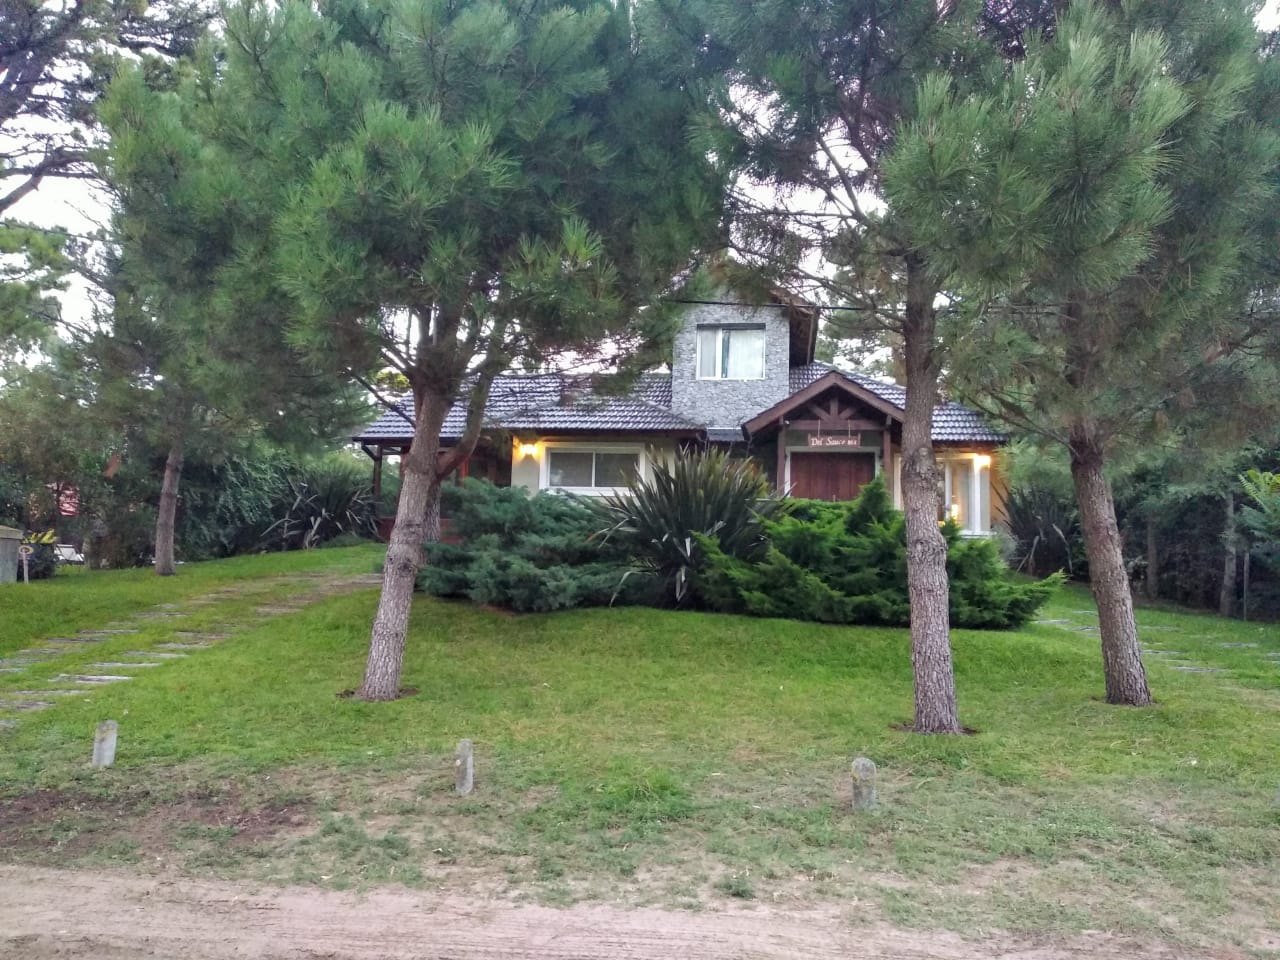
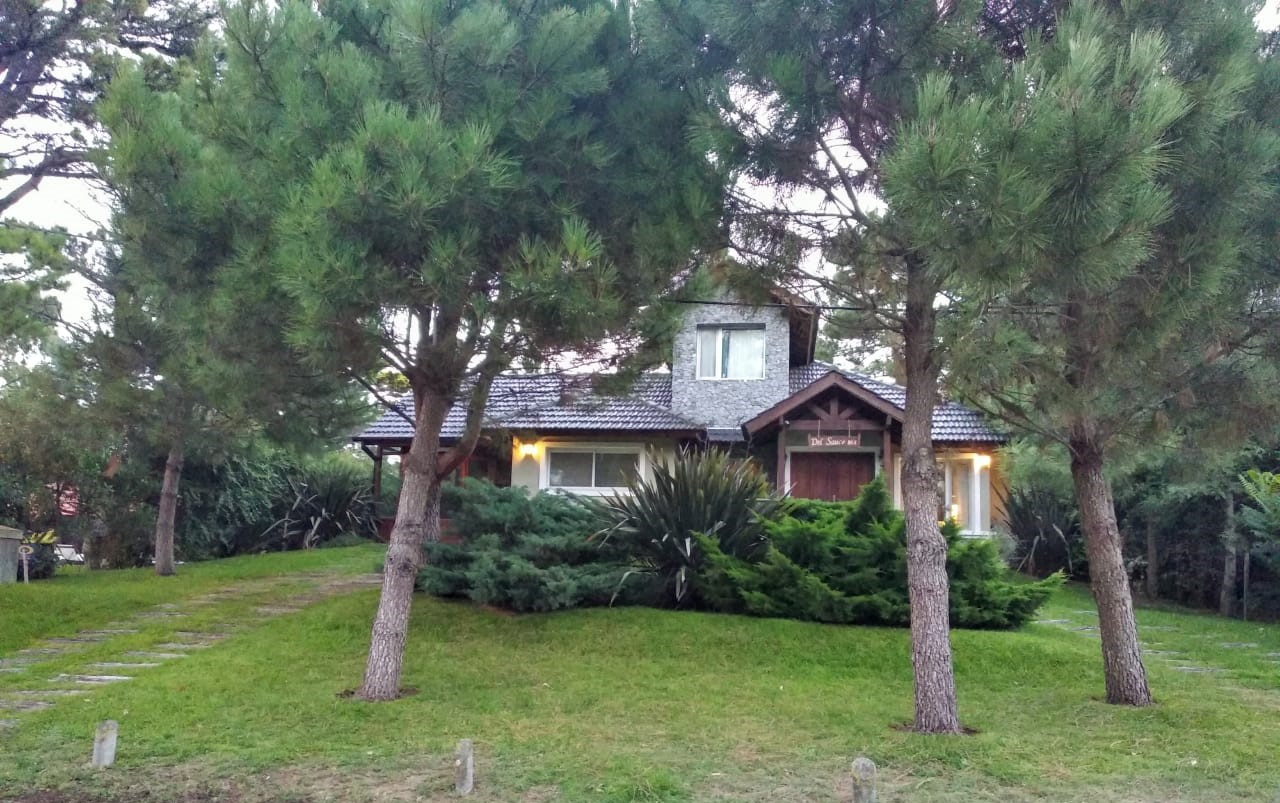
update

diff --git a/casa.html b/casa.html
@@ -67,30 +67,30 @@
     <!-- Photo grid (modal) -->
     <div class="w3-row-padding">
       <div class="w3-half w3-center">
-        <img src="./assets/FOTOS/9.jpg" style="width:100%; height:auto" onclick="onClick(this)" alt="Lado Derecho">
+        <img src="./assets/FOTOS/7.jpg" style="width:100%; height:auto" onclick="onClick(this)" alt="frente">
       </div>
       <div class="w3-half w3-center">
-        <img src="./assets/FOTOS/9.jpg" style="width:100%; height:auto" onclick="onClick(this)" alt="Frente">
-      </div>
-     
-    </div>
-    <br>
-    <div class="w3-row-padding">
-      <div class="w3-half w3-center">
-        <img src="./assets/FOTOS/Dormitorio1.jpeg" style="width:100%; height:auto" onclick="onClick(this)" alt="Lado Derecho">
-      </div>
-      <div class="w3-half w3-center">
-        <img src="./assets/FOTOS/Dormitorio11.jpeg" style="width:100%; height:auto" onclick="onClick(this)" alt="Dormitorio 2">
+        <img src="./assets/img/casa3.jfif" style="width:100%; height:auto" onclick="onClick(this)" alt="Frente">
       </div>
      
     </div>
     <br>
     <div class="w3-row-padding">
       <div class="w3-half w3-center">
-        <img src="./assets/FOTOS/Dormitorio2.jpeg" style="width:100%; height:auto" onclick="onClick(this)" alt="Lado Derecho">
+        <img src="./assets/FOTOS/Dormitorio1.jpeg" style="width:100%; height:auto" onclick="onClick(this)" alt="Dormitorio 1">
       </div>
       <div class="w3-half w3-center">
-        <img src="./assets/FOTOS/Dormitorio3.jpeg" style="width:100%; height:auto" onclick="onClick(this)" alt="Dormitorio 2">
+        <img src="./assets/FOTOS/Dormitorio11.jpeg" style="width:100%; height:auto" onclick="onClick(this)" alt="Dormitorio 1">
+      </div>
+     
+    </div>
+    <br>
+    <div class="w3-row-padding">
+      <div class="w3-half w3-center">
+        <img src="./assets/FOTOS/Dormitorio2.jpeg" style="width:100%; height:auto" onclick="onClick(this)" alt="Dormitorio 2">
+      </div>
+      <div class="w3-half w3-center">
+        <img src="./assets/FOTOS/Dormitorio3.jpeg" style="width:100%; height:auto" onclick="onClick(this)" alt="Dormitorio 3">
       </div>
      
     </div>
@@ -104,15 +104,15 @@
       </div>
     </div>
     <hr>
-    <div class="w3-row-padding">
+    <!-- <div class="w3-row-padding">
       <div class="w3-half">
         <img src="./assets/FOTOS/cuarto1.jpg" style="width:100%; height:auto;" onclick="onClick(this)" alt="Dormitorio 1">
       </div>
       <div class="w3-half">
         <img src="./assets/FOTOS/cuarto2.jpg" style="width:100%; height:auto;" onclick="onClick(this)" alt="Dormitorio 2">
       </div>
-    </div>
-    <hr>
+    </div> -->
+    <!-- <hr> -->
     <div class="w3-row-padding">
       <div class="w3-half">
         <img src="./assets/FOTOS/cuarto3.jpg" style="width:100%; height:auto;" onclick="onClick(this)" alt="Tercer Cuarto">
